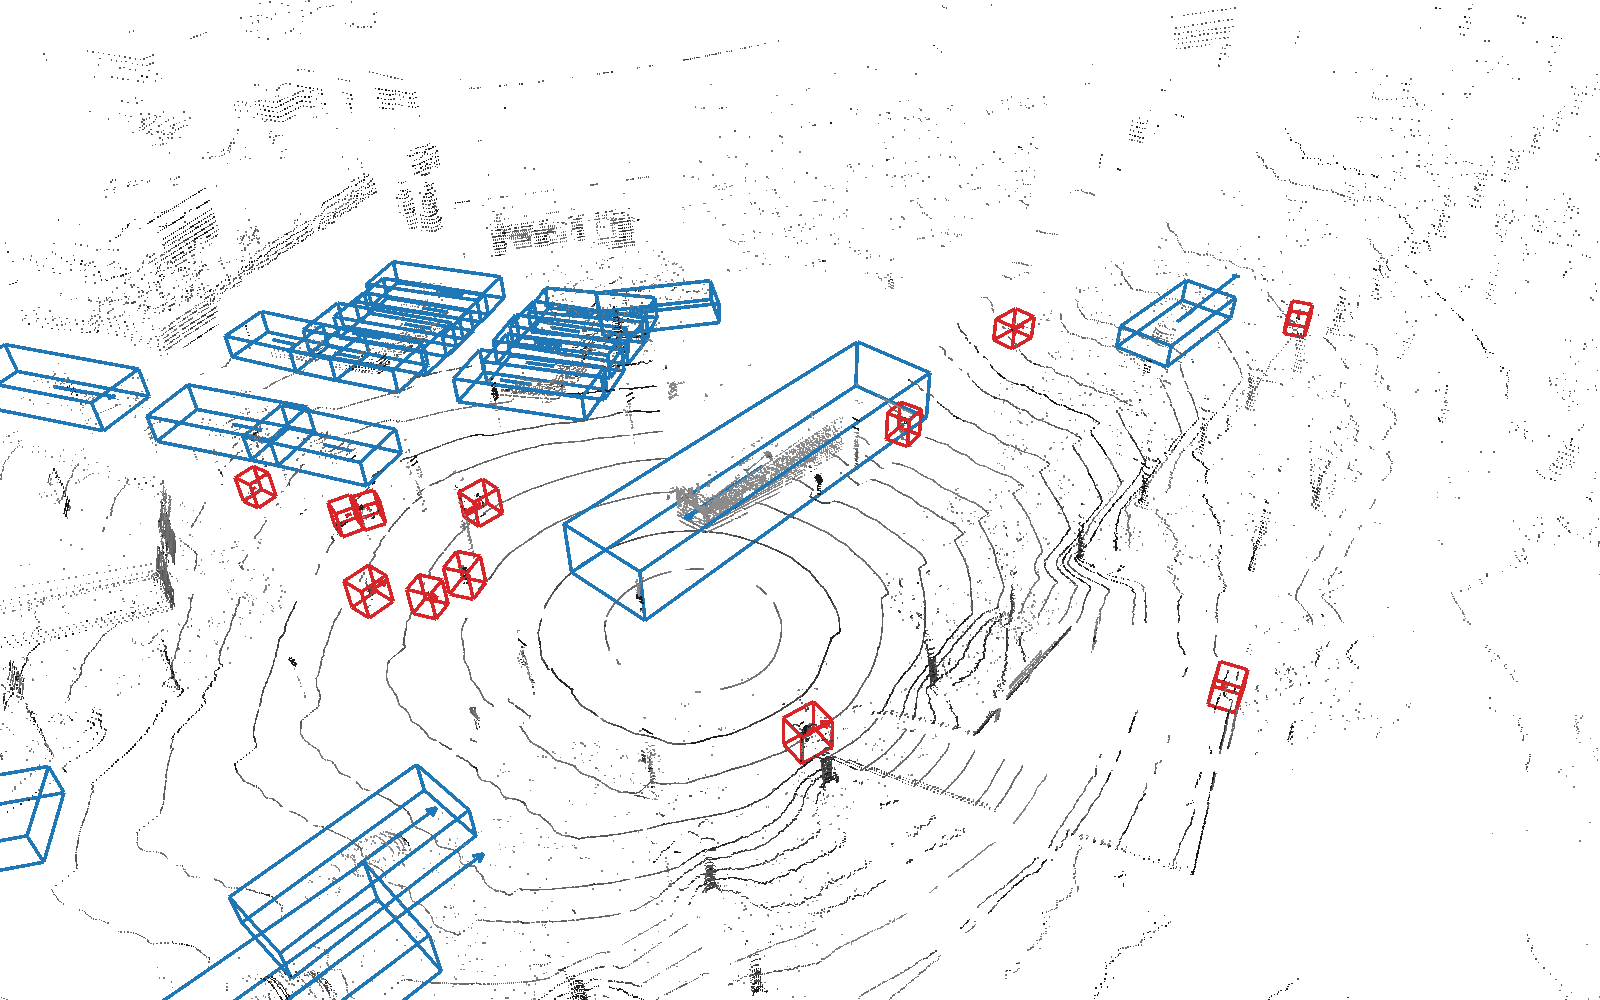
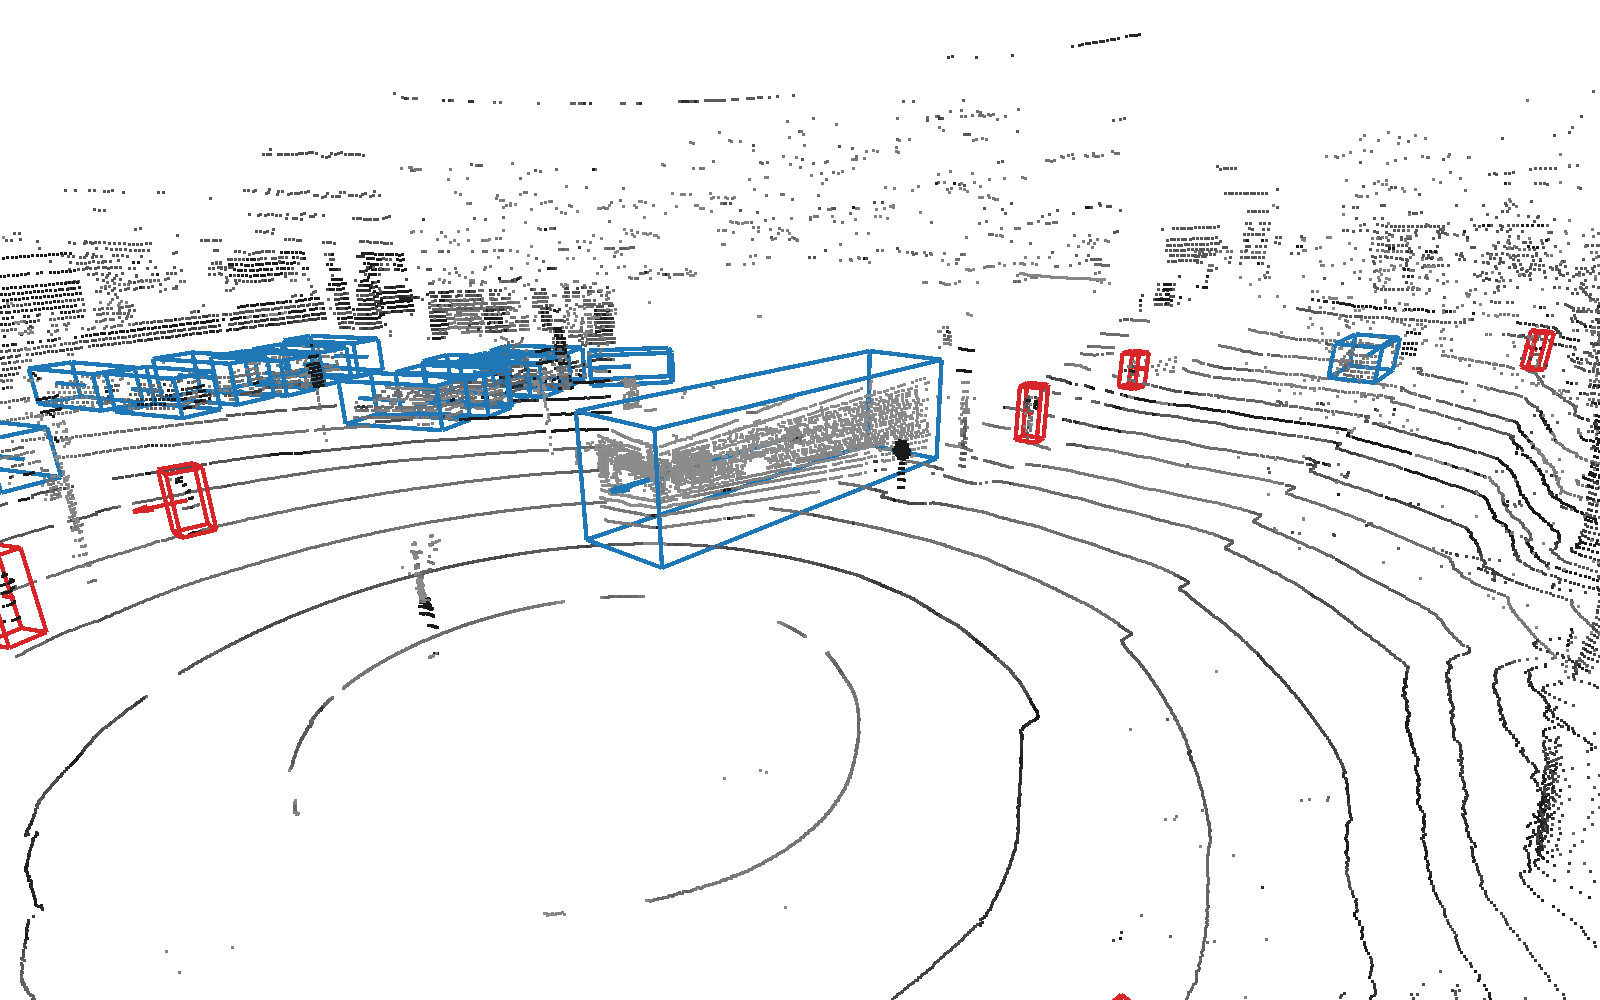
Full validation splits, README trimmed to the model, pypcd4

diff --git a/detect.py b/detect.py
@@ -1,10 +1,9 @@
 #!/usr/bin/env python3
 """Run the pillar 3D object detector (ONNX) on a lidar scan in PCD format, print the boxes and optionally show them.
 
-The model gets what the autoware_mini pillar_detector node feeds it: the current scan and previous scans in the
-current lidar frame (x forward, y left, z up, metres, origin at the lidar), raw sensor intensity (0-255; normalised in
-the graph), a time-lag column (0 for the current scan, the age in seconds for previous ones) and the lidar height above
-the ground. Previous scans come from <name>_sweep_<k>.pcd (k = 1 newest) next to the cloud, with their lags in
+The model takes the current scan and previous scans in the current lidar frame (x forward, y left, z up, metres,
+origin at the lidar), raw sensor intensity (0-255; normalised in the graph), a time-lag column (0 for the current scan,
+the age in seconds for previous ones) and the lidar height above the ground. Previous scans come from <name>_sweep_<k>.pcd (k = 1 newest) next to the cloud, with their lags in
 sweeps.json ({"lag": [0.1, 0.2, ...]}); they must already be ego-motion compensated into the current lidar frame.
 
 usage: python detect.py example.pcd [--sweeps 1] [--style nuscenes] [--lidar_height 2.11] [--threshold 0.5]
@@ -13,36 +12,18 @@ usage: python detect.py example.pcd [--sweeps 1] [--style nuscenes] [--lidar_hei
 import argparse, json, os, time
 import numpy as np
 import onnxruntime as ort
+from pypcd4 import PointCloud
 
-PCD_TYPES = {('F', 4): 'f4', ('F', 8): 'f8', ('U', 1): 'u1', ('U', 2): 'u2', ('U', 4): 'u4', ('I', 1): 'i1',
-             ('I', 2): 'i2', ('I', 4): 'i4'}
 GROUP_COLOURS = {'vehicle': (0.12, 0.47, 0.71), 'pedestrian': (0.84, 0.15, 0.16), 'cyclist': (0.17, 0.63, 0.17),
                  'obstacle': (1.0, 0.5, 0.05), 'animal': (0.58, 0.4, 0.74), 'unknown': (0.5, 0.5, 0.5)}
 
 
 def read_pcd(path):
-    """PCD (ascii or binary) -> (N, 4) float32 x, y, z, intensity (0 if the file has no intensity field)."""
-    with open(path, 'rb') as f:
-        header = {}
-        while 'DATA' not in header:
-            line = f.readline().decode('ascii').strip()
-            if line and not line.startswith('#'):
-                key, *values = line.split()
-                header[key] = values
-        fields, sizes, types = header['FIELDS'], map(int, header['SIZE']), header['TYPE']
-        counts = map(int, header.get('COUNT', ['1'] * len(fields)))
-        dtype = np.dtype([(n, PCD_TYPES[(t, s)]) if c == 1 else (n, PCD_TYPES[(t, s)], (c,))
-                          for n, s, t, c in zip(fields, sizes, types, counts)])
-        n = int(header['POINTS'][0])
-        if header['DATA'][0] == 'binary':
-            data = np.frombuffer(f.read(n * dtype.itemsize), dtype=dtype, count=n)
-        elif header['DATA'][0] == 'ascii':
-            data = np.loadtxt(f, dtype=dtype, ndmin=1)
-        else:
-            raise ValueError(f'PCD DATA {header["DATA"][0]} not supported (use ascii or binary)')
-    cols = [data[k].astype(np.float32) for k in ('x', 'y', 'z')]
-    cols.append(data['intensity'].astype(np.float32) if 'intensity' in fields else np.zeros(len(data), np.float32))
-    points = np.stack(cols, 1)
+    """PCD (ascii, binary or binary_compressed) -> (N, 4) float32 x, y, z, intensity (0 if the file has none)."""
+    cloud = PointCloud.from_path(path)
+    points = cloud.numpy(('x', 'y', 'z')).astype(np.float32)
+    intensity = cloud.numpy(('intensity',)).astype(np.float32) if 'intensity' in cloud.fields else np.zeros((len(points), 1), np.float32)
+    points = np.hstack((points, intensity))
     return points[np.isfinite(points).all(1)]
 
 
@@ -69,8 +50,8 @@ def load_model(path, threads, cpu=False):
 
 
 def model_input(points, meta):
-    """Fixed-size input [max_input_points, 5]; padding rows lie below the pillar grid, which the model ignores. Like the
-    node, a larger merged cloud is truncated: the current scan comes first, so the oldest sweep points are dropped."""
+    """Fixed-size input [max_input_points, 5]; padding rows lie below the pillar grid, which the model ignores. A larger
+    merged cloud is truncated: the current scan comes first, so the oldest sweep points are dropped."""
     grid = meta['grid']
     rows = np.zeros((grid['max_input_points'], 5), np.float32)
     rows[:, 2] = grid['z_min'] - 100.0
@@ -94,7 +75,7 @@ def detect(session, meta, points, style, lidar_height, threshold):
 def box_lines(b, velocity):
     """Box edges, heading line (centre -> front) and velocity arrow (1 s of motion) as (K, 2, 3) segments."""
     c, s = np.cos(b[6]), np.sin(b[6])
-    corners = np.array([[x, y, z] for z in (-0.5, 0.5) for x, y in ((1, 1), (1, -1), (-1, -1), (-1, 1))]) * b[3:6]
+    corners = 0.5 * np.array([[x, y, z] for z in (-1, 1) for x, y in ((1, 1), (1, -1), (-1, -1), (-1, 1))]) * b[3:6]
     corners = corners @ np.array([[c, s, 0], [-s, c, 0], [0, 0, 1]]) + b[:3]
     edges = [(i, (i + 1) % 4) for i in range(4)] + [(i + 4, (i + 1) % 4 + 4) for i in range(4)] + [(i, i + 4) for i in range(4)]
     segs = [corners[[i, j]] for i, j in edges] + [[b[:3], b[:3] + 0.5 * b[3] * np.array([c, s, 0])]]
@@ -124,7 +105,7 @@ def scene(points, boxes, meta, velocity):
     return cloud, lines
 
 
-VIEW = dict(lookat=[12.0, 0.0, -2.0], eye=[-38.0, -26.0, 42.0], up=[0.0, 0.0, 1.0])   # behind and above the car
+VIEW = dict(lookat=[10.0, 1.0, -1.5], eye=[-10.0, -9.0, 6.0], up=[0.0, 0.0, 1.0])   # behind and above the car
 
 
 def render(cloud, lines, path, size=(1600, 1000)):
@@ -134,13 +115,13 @@ def render(cloud, lines, path, size=(1600, 1000)):
     r = rendering.OffscreenRenderer(*size)
     r.scene.set_background([1, 1, 1, 1])
     r.scene.view.set_post_processing(False)   # exact colours, no tone mapping
-    for name, geometry, shader, attr, value in (('points', cloud, 'defaultUnlit', 'point_size', 1.5),
-                                                ('boxes', lines, 'unlitLine', 'line_width', 3.0)):
+    for name, geometry, shader, attr, value in (('points', cloud, 'defaultUnlit', 'point_size', 3.0),
+                                                ('boxes', lines, 'unlitLine', 'line_width', 5.0)):
         material = rendering.MaterialRecord()
         material.shader = shader
         setattr(material, attr, value)
         r.scene.add_geometry(name, geometry, material)
-    r.setup_camera(45.0, VIEW['lookat'], VIEW['eye'], VIEW['up'])
+    r.setup_camera(60.0, VIEW['lookat'], VIEW['eye'], VIEW['up'])
     o3d.io.write_image(path, r.render_to_image())
 
 

diff --git a/README.md b/README.md
@@ -1,11 +1,12 @@
 # lidar_pillar_detector
 
-A lidar-only 3D object detector trained on seven public driving datasets and on pseudo-labelled drives of our own
-car. It runs on the [autoware_mini](https://github.com/UT-ADL/autoware_mini) research vehicle of the University of
-Tartu Autonomous Driving Lab as the `pillar_detector` node. This repository holds the exported model, `pillar_film_v5`,
-as one ONNX file with all preprocessing and decoding inside the graph. It also has a one-file inference script and an
-example scan with four previous scans. The sibling repository
+A lidar-only 3D object detector trained on seven public driving datasets and on pseudo-labelled drives of the
+University of Tartu Autonomous Driving Lab. This repository holds the exported model, `pillar_film_v5`, as one ONNX
+file with all preprocessing and decoding inside the graph. It also has a one-file inference script and an example
+scan with four previous scans. The sibling repository
 [lidar_panoptic_segmentation](https://github.com/UT-ADL/lidar_panoptic_segmentation) uses the same example scans.
+
+## Demo
 
 **Demo video:** <https://youtu.be/hSmaLExwSd8?si=eZymWNIcQgFjZ9iM>
 
@@ -14,7 +15,7 @@ example scan with four previous scans. The sibling repository
 ## Quick start
 
 ```bash
-pip install -r requirements.txt      # numpy, onnxruntime
+pip install -r requirements.txt      # numpy, onnxruntime, pypcd4
 pip install open3d                   # optional, for --show and --plot
 python detect.py example.pcd --show
 ```
@@ -63,16 +64,20 @@ car            21.8   22.9  -1.8   4.4  1.9  1.6  1.76  0.73   0.0  -0.0  -0.0
 - **Output:** one line per object with class, centre x y z, size l w h, yaw, score, and the speed, vx and vy in m/s
   over the ground. The scene shows the current scan shaded by intensity and the boxes coloured by class group, with
   a heading line from the centre to the front and a velocity arrow covering 1 s of motion.
-- **PCD files:** `detect.py` reads ascii and binary PCD with fields `x y z` and optionally `intensity`, without Open3D.
+- **PCD files:** `detect.py` reads ascii, binary and binary-compressed PCD with fields `x y z` and optionally
+  `intensity`, using [pypcd4](https://github.com/MapIV/pypcd4).
 - **Open3D:** tested with open3d 0.19.0. `--show` needs a display. `--plot` renders offscreen; on a machine without a
   GPU, set `OPEN3D_CPU_RENDERING=true EGL_PLATFORM=surfaceless`.
 - **GPU:** install `onnxruntime-gpu` instead of `onnxruntime`. The `cuda,cudnn` extras bring the CUDA libraries as
   pip wheels:
 
-| GPU | Install | Tested |
-|---|---|---|
-| Ampere or newer | `pip install numpy "onnxruntime-gpu[cuda,cudnn]"` | A100, onnxruntime-gpu 1.31.1, CUDA 13 |
-| Volta (V100) | `pip install numpy "onnxruntime-gpu[cuda,cudnn]==1.22.0" "nvidia-cudnn-cu12==9.10.2.21"` | V100. CUDA 13 dropped Volta, and cuDNN 9.27 fails on it |
+| GPU | Install |
+|---|---|
+| current GPUs | `pip install numpy pypcd4 "onnxruntime-gpu[cuda,cudnn]"` |
+| Volta-class GPUs | `pip install numpy pypcd4 "onnxruntime-gpu[cuda,cudnn]==1.22.0" "nvidia-cudnn-cu12==9.10.2.21"` |
+
+The onnxruntime-gpu wheels for CUDA 13 do not support Volta-class GPUs, so use a CUDA 12 build there, as in the
+second row.
 
 ### Example scans
 
@@ -85,15 +90,27 @@ car            21.8   22.9  -1.8   4.4  1.9  1.6  1.76  0.73   0.0  -0.0  -0.0
 - **Frame:** all five files are in the current scan's lidar frame: origin at the lidar, x forward, y left, z up,
   with no ground shift. The previous scans are ego-motion compensated with the car's Novatel odometry and the
   base_link-to-lidar extrinsic calibration.
-- **Lidar height:** the lidar is 2.11 m above the ground. This is the TF transform from `base_footprint` to the lidar
-  that autoware_mini uses.
+- **Lidar height:** the lidar is 2.11 m above the ground, from the car's `base_footprint`-to-lidar transform.
 - **Points:** binary float32 x y z intensity, with raw intensity 0-255.
 - **Minimum range:** points closer than 2.7 m, the car's lidar driver minimum, were removed from the previous scans in
-  their own frame. The current scan is unfiltered. Neither the autoware_mini node nor `detect.py` applies a range cut,
-  because on the car the lidar driver already does.
+  their own frame. The current scan is unfiltered. `detect.py` applies no range cut, because the car's lidar driver
+  already does.
 - **Use:** the scans are not part of any evaluation set and are licensed CC BY 4.0, see [License](#license).
 
-## ONNX contract
+## Model
+
+| | |
+|---|---|
+| Pillars | 0.1 m, 4 height slices, up to 16 points per pillar and 100000 pillars, built inside the graph |
+| Backbone | BEV residual CNN (widths 64/128/256/384, 2/4/6/3 blocks) with an FPN to a 0.4 m output grid |
+| Heads | CenterPoint-style, one class head per dataset taxonomy in training. The export decodes the nuScenes-taxonomy head (19 classes) with class-agnostic objectness, plus velocity |
+| Conditioning | a learned embedding per annotation style (FiLM) |
+| Decoding | in the graph: score threshold, class-agnostic distance NMS (per-class radius), 100 boxes |
+| Parameters | 16.5 M |
+| File | fp16 weights in the backbone, heads and style embedding. Inputs, outputs, pillarisation and decoding are fp32. 48 MB |
+| Training | 36 epochs, up to 4 previous scans |
+
+## ONNX interface
 
 **Inputs**
 
@@ -123,23 +140,10 @@ car            21.8   22.9  -1.8   4.4  1.9  1.6  1.76  0.73   0.0  -0.0  -0.0
 | `class_groups` | `animal, obstacle, cyclist, obstacle, vehicle, vehicle, vehicle, obstacle, vehicle, cyclist, pedestrian, cyclist, obstacle, pedestrian, obstacle, vehicle, vehicle, pedestrian, unknown` (one per class) |
 | `nms_radius` | `0.4, 0.5, 0.8, 1.0, 3.0, 1.5, 2.5, 0.5, 1.5, 0.8, 0.4, 0.4, 0.5, 0.4, 0.3, 3.0, 2.5, 0.4, 0.5` (m, one per class, applied in the graph) |
 | `styles` | `nuscenes, waymo, av2, kitti, lyft, once, pandaset, av1, adl` |
-| `sweeps` | `1` (previous scans the model is deployed with) |
+| `sweeps` | `1` (default number of previous scans) |
 | `velocity` | `true` (columns 9-10 are predicted) |
 
 Lists are JSON arrays in the file. `z_min` and `z_max` are relative to the ground after the `lidar_height` shift.
-
-**Model**
-
-| | |
-|---|---|
-| Pillars | 0.1 m, 4 height slices, up to 16 points per pillar and 100000 pillars, built inside the graph |
-| Backbone | BEV residual CNN (widths 64/128/256/384, 2/4/6/3 blocks) with an FPN to a 0.4 m output grid |
-| Heads | CenterPoint-style, one class head per dataset taxonomy in training. The export decodes the nuScenes-taxonomy head (19 classes) with class-agnostic objectness, plus velocity |
-| Conditioning | a learned embedding per annotation style (FiLM) |
-| Decoding | in the graph: score threshold, class-agnostic distance NMS (per-class radius), 100 boxes |
-| Parameters | 16.5 M |
-| File | fp16 weights in the backbone, heads and style embedding. Inputs, outputs, pillarisation and decoding are fp32. 48 MB |
-| Training | 36 epochs, up to 4 previous scans |
 
 ## Styles and datasets
 
@@ -148,7 +152,7 @@ are always the list above. For an unknown lidar, start with `nuscenes`.
 
 | Style | Dataset | Contributed | Licence | Use the style for |
 |---|---|---|---|---|
-| `nuscenes` | [nuScenes](https://www.nuscenes.org/terms-of-use) | 28130 frames, 32-beam HDL-32E, 18 classes | CC BY-NC-SA 4.0 plus the Motional terms of use (no endorsement, no use of their marks) | **the default.** Deployed on our car, best-tested, calibrated scores |
+| `nuscenes` | [nuScenes](https://www.nuscenes.org/terms-of-use) | 28130 frames, 32-beam HDL-32E, 18 classes | CC BY-NC-SA 4.0 plus the Motional terms of use (no endorsement, no use of their marks) | **the default.** Best-tested, calibrated scores |
 | `waymo` | [Waymo Open Dataset](https://waymo.com/open/terms/) | 31880 frames, 64-beam top lidar, 4 classes | Waymo Dataset License Agreement for Non-Commercial Use | dense 64-beam lidars |
 | `av2` | [Argoverse 2](https://www.argoverse.org/about.html) | 22477 frames, 2 × VLP-32C, 30 classes | CC BY-NC-SA 4.0 | |
 | `kitti` | [KITTI](https://www.cvlibs.net/datasets/kitti/) | 3712 frames, HDL-64E, 8 classes, labels in the front camera view only | CC BY-NC-SA 3.0 | |
@@ -156,19 +160,19 @@ are always the list above. For an unknown lidar, start with `nuscenes`.
 | `once` | [ONCE](https://once-for-auto-driving.github.io/terms_of_use.html) | 4961 frames, 40-beam lidar, 5 classes | CC BY-NC-SA 4.0 plus the ONCE Terms of Use | |
 | `pandaset` | [PandaSet](https://pandaset.org) | 6640 frames, Hesai Pandar64, 27 classes | CC BY 4.0 plus the Scale AI and Hesai terms of use (no identifying persons, no use of their marks) | |
 | `av1` | Argoverse 1 | nothing, not used for this model | CC BY-NC-SA 4.0 | don't use, the row is untrained |
-| `adl` | own drives, University of Tartu Autonomous Driving Lab | 5645 scans, VLP-32C at 2.11 m, pseudo-labels from an earlier model | CC BY 4.0 for the published example scans; the rest are not published | a VLP-32C or similar sparse roof lidar: better far-range recall, but scores run higher (threshold ~0.66) and more pedestrian false positives |
+| `adl` | own drives, University of Tartu Autonomous Driving Lab | 5645 scans, VLP-32C at 2.11 m, pseudo-labels from an earlier model | CC BY 4.0 for the published example scans; the rest are not published | a VLP-32C or similar sparse roof lidar. Scores run higher, so use a threshold of about 0.66 |
 | unknown (index 9) | all of the above, 10% of training samples | | | a generic fallback; not evaluated separately |
 
 Licences were checked on the dataset websites and in the licence files that ship with the downloads, in November 2026.
-Only the training splits were used. Public validation splits and our test set were never trained on.
+Only the training splits were used. The validation splits were never trained on.
 
-**Thresholds.** Use 0.5 with the `nuscenes` style, the node's default. With the `adl` style use about 0.66, because its
-scores are inflated and 0.5 gives more false positives.
+**Thresholds.** Use 0.5 with the `nuscenes` style. With the `adl` style use about 0.66, because its scores run
+higher.
 
-## Multi-sweep input and velocity
+## Multi-sweep input
 
-The model is deployed with one previous scan (`sweeps: 1`), which gives velocity and improves detection. Build
-`points` as the autoware_mini node and `detect.py --sweeps N` do:
+The model was trained with up to 4 previous scans. One previous scan (`sweeps: 1` in the metadata) is the default
+and gives velocity. Build `points` as `detect.py --sweeps N` does:
 
 | Rows | x, y, z | intensity | lag |
 |---|---|---|---|
@@ -183,54 +187,34 @@ The model is deployed with one previous scan (`sweeps: 1`), which gives velocity
   scan comes first, so the oldest previous points go. The example has about 96k points with 1 previous scan and about
   240k with 4, so `--sweeps 4` truncates.
 - **Without history:** with only lag-0 points the velocity columns are not meaningful, so don't use them.
-- **Sweep count:** up to 4 previous scans were seen in training. More scans give better velocity but worse detection,
-  as the results show.
 
 ## Results
 
-**Public validation splits.** Each dataset is scored with its own style and its own class head, with 4 previous scans
-where the dataset has them (KITTI has none). The evaluation uses 1000 evenly spaced frames per validation split and
-the PyTorch model at the final epoch.
+**Validation splits.** Each dataset is scored on its full validation split, with its own style and its own class
+head, using the PyTorch model at the final epoch. The single-scan column feeds no previous scans. KITTI has no
+previous scans, so both columns are the same there.
 
-| Dataset | Validation frames (used / split) | v5, this model: strict BEV AP / nuScenes AP | v4: strict BEV AP / nuScenes AP |
+| Dataset | Validation frames | Strict BEV AP / nuScenes AP, 4 previous scans | Strict BEV AP / nuScenes AP, single scan |
 |---|---|---|---|
-| nuScenes | 1000 / 6019 | 0.495 / 0.576 | 0.503 / 0.588 |
-| Waymo | 1000 / 4038 | 0.779 / 0.823 | 0.777 / 0.821 |
-| Argoverse 2 | 1000 / 4806 | 0.484 / 0.652 | 0.495 / 0.648 |
-| KITTI | 1000 / 3769 | 0.643 / 0.656 | 0.634 / 0.633 |
-| Lyft | 1000 / 1260 | 0.714 / 0.759 | 0.736 / 0.778 |
-| ONCE | 1000 / 3321 | 0.817 / 0.862 | 0.818 / 0.859 |
-| PandaSet | 1000 / 1600 | 0.502 / 0.560 | 0.504 / 0.556 |
-| **mean** | | **0.633** / 0.698 | **0.638** / 0.698 |
+| nuScenes | 6019 | 0.495 / 0.579 | 0.432 / 0.488 |
+| Waymo | 4038 | 0.773 / 0.817 | 0.739 / 0.788 |
+| Argoverse 2 | 4806 | 0.491 / 0.656 | 0.468 / 0.610 |
+| KITTI | 3769 | 0.625 / 0.651 | 0.625 / 0.651 |
+| Lyft | 1260 | 0.708 / 0.758 | 0.675 / 0.708 |
+| ONCE | 3321 | 0.819 / 0.863 | 0.806 / 0.844 |
+| PandaSet | 1600 | 0.503 / 0.562 | 0.487 / 0.536 |
+| **mean** | | **0.631** / 0.698 | **0.605** / 0.661 |
 
 - **Strict BEV AP:** AP|R40 at IoU 0.7 for vehicles and 0.5 for pedestrians, over each dataset's classes.
 - **nuScenes AP:** centre-distance AP at 0.5, 1, 2 and 4 m.
-- **v4:** the previous model, `pillar_film_v4`, with the same recipe but without our own drives.
 
-**Our test set.** It has 300 labelled VLP-32C scans from Tartu that were never trained on. The scores use the
-autoware_mini node code with TensorRT fp16, 1 previous scan and threshold 0.5. Strict mAP is over cars, pedestrians
-and buses in front of the car to 50 m. Vehicle recall at score 0.5 is per distance band in front of the car.
+**Timing** on an RTX 2080 Ti machine, per scan with 1 previous scan:
 
-| Style | Strict BEV mAP | Vehicle recall, 0-35 / 35-50 / 50-65 / 65-80 m |
-|---|---|---|
-| `nuscenes` | 0.711 | 0.96 / 0.94 / 0.73 / 0.54 |
-| `adl` | 0.722 | 0.99 / 0.98 / 0.96 / 0.80 |
-| `nuscenes`, this fp16 file in ONNX Runtime | 0.727 (fp32 weights: 0.721) | |
+| Runtime | Per scan |
+|---|---|
+| TensorRT 10 fp16, model inference | 29 ms |
 
-| Previous scans | 0 | 1 | 2 | 4 |
-|---|---|---|---|---|
-| Test set, strict BEV mAP (`adl` style) | 0.711 | 0.722 | 0.696 | 0.687 |
-| Velocity error of moving objects (m/s) | 3.73 | 1.04 | 0.93 | 0.89 |
-
-| Hardware | Runtime | Per scan |
-|---|---|---|
-| RTX 2080 Ti (in the car) | TensorRT fp16, inference | 29 ms |
-| V100 | TensorRT fp16, node `detect()` with 1 previous scan | 31.5 ms |
-| V100 | ONNX Runtime CUDA, `detect.py` | ~110 ms |
-| A100 | ONNX Runtime CUDA, `detect.py` | ~55 ms |
-| CPU, 8 threads (AMD EPYC 7763) | ONNX Runtime, `detect.py` | 3-6 s |
-
-TensorRT is what makes it real-time. With ONNX Runtime's CUDA provider some graph nodes fall back to the CPU.
+With ONNX Runtime's CUDA provider some graph nodes fall back to the CPU.
 
 ## License
 
@@ -282,11 +266,3 @@ No dataset owner endorses this model or is affiliated with it.
 
 **Example scans.** The example scans are licensed under
 [Creative Commons Attribution 4.0 International](https://creativecommons.org/licenses/by/4.0/) (CC BY 4.0).
-
-## Related
-
-| Repository | |
-|---|---|
-| [autoware_mini](https://github.com/UT-ADL/autoware_mini) | the autonomy software. Its `pillar_detector` node runs this model with TensorRT, reads `lidar_height` from TF and keeps one previous scan |
-| [lidar_panoptic_segmentation](https://github.com/UT-ADL/lidar_panoptic_segmentation) | lidar panoptic segmentation for the same car, with the same example scans |
-| training repository | training, export and evaluation code, internal to the University of Tartu |
